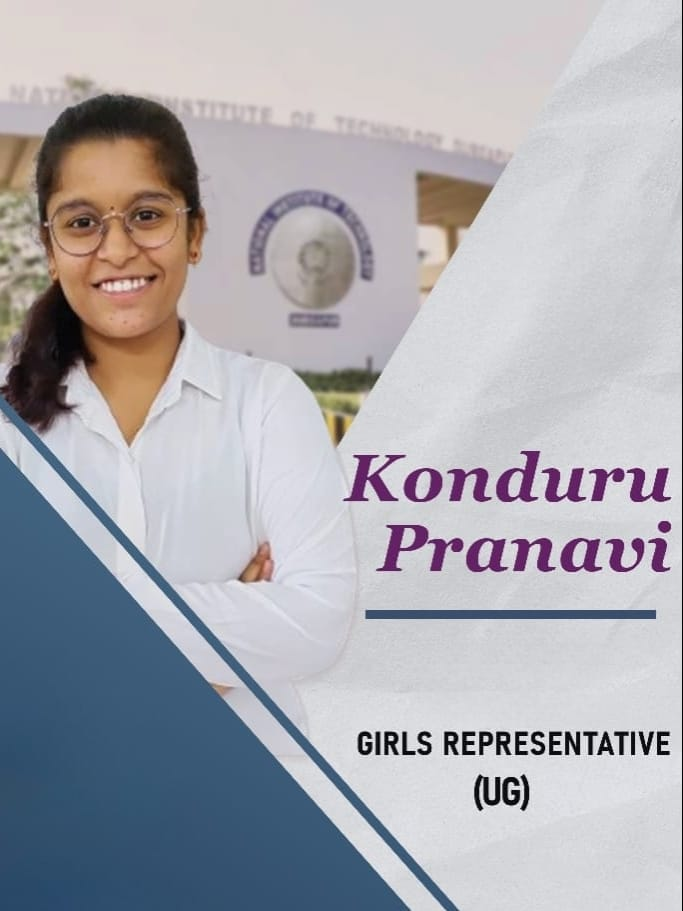
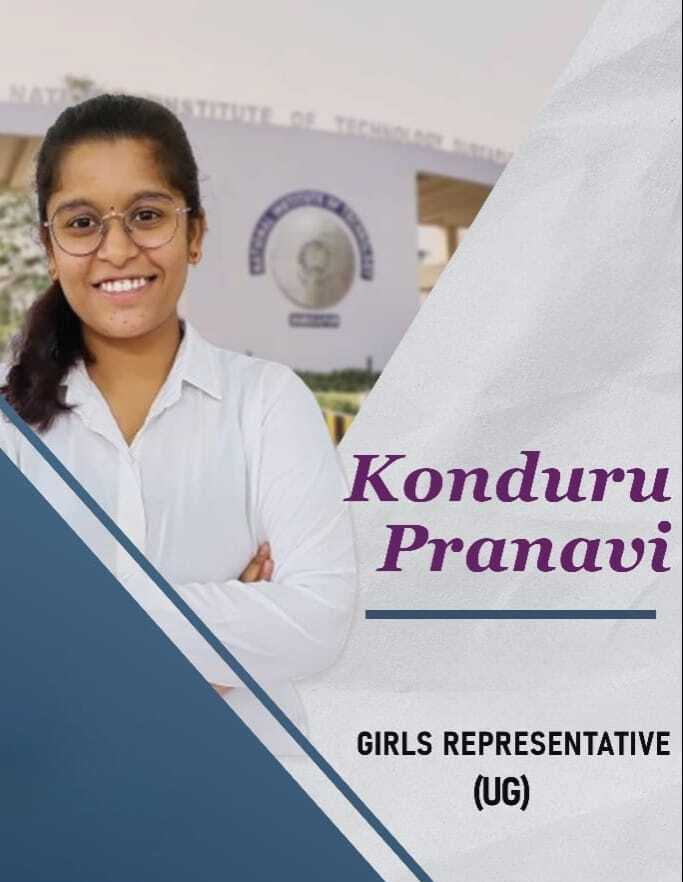
Fixed Post Bearer Page

diff --git a/components/ui/focus-cards.jsx b/components/ui/focus-cards.jsx
@@ -13,21 +13,21 @@ export const Card = React.memo(({
     onMouseEnter={() => setHovered(index)}
     onMouseLeave={() => setHovered(null)}
     className={cn(
-      "rounded-lg relative bg-gray-100 dark:bg-neutral-900 overflow-hidden h-60 md:h-96 w-full transition-all duration-300 ease-out",
+      "rounded-lg relative bg-gray-100 dark:bg-neutral-900 overflow-hidden w-[80%] mx-auto h-60 md:h-96 md:w-full transition-all duration-300 ease-out",
       hovered !== null && hovered !== index && "blur-sm scale-[0.98]"
     )}>
     <Image
       src={card.src}
       alt={card.title}
       fill
-      className="object-cover absolute inset-0" />
+      className="object-cover absolute inset-0 contain-strict" />
     <div
       className={cn(
-        "absolute inset-0 bg-black/50 flex items-end py-8 px-4 transition-opacity duration-300",
+        "absolute inset-0 bg-black/50 flex items-end px-0 py-10 md:py-16 text-nowrap transition-opacity duration-300",
         hovered === index ? "opacity-100" : "opacity-0"
       )}>
       <div
-        className="text-xl md:text-2xl font-medium bg-clip-text text-transparent bg-gradient-to-b from-neutral-50 to-neutral-200">
+        className="text-xl md:text-2xl mx-auto font-extrabold bg-clip-text text-transparent bg-gradient-to-b from-neutral-50 to-neutral-200">
         {card.title}
       </div>
     </div>
@@ -43,7 +43,7 @@ export function FocusCards({
 
   return (
     (<div
-      className="grid grid-cols-1 md:grid-cols-3 gap-10 max-w-5xl mx-auto md:px-8 w-full mb-5">
+      className="grid grid-cols-1 md:grid-cols-3 gap-10 max-w-5xl mx-auto md:px-8 w-full mt-6 mb-6 md:mt-0 md:mb-5">
       {cards.map((card, index) => (
         <Card
           key={card.title}
